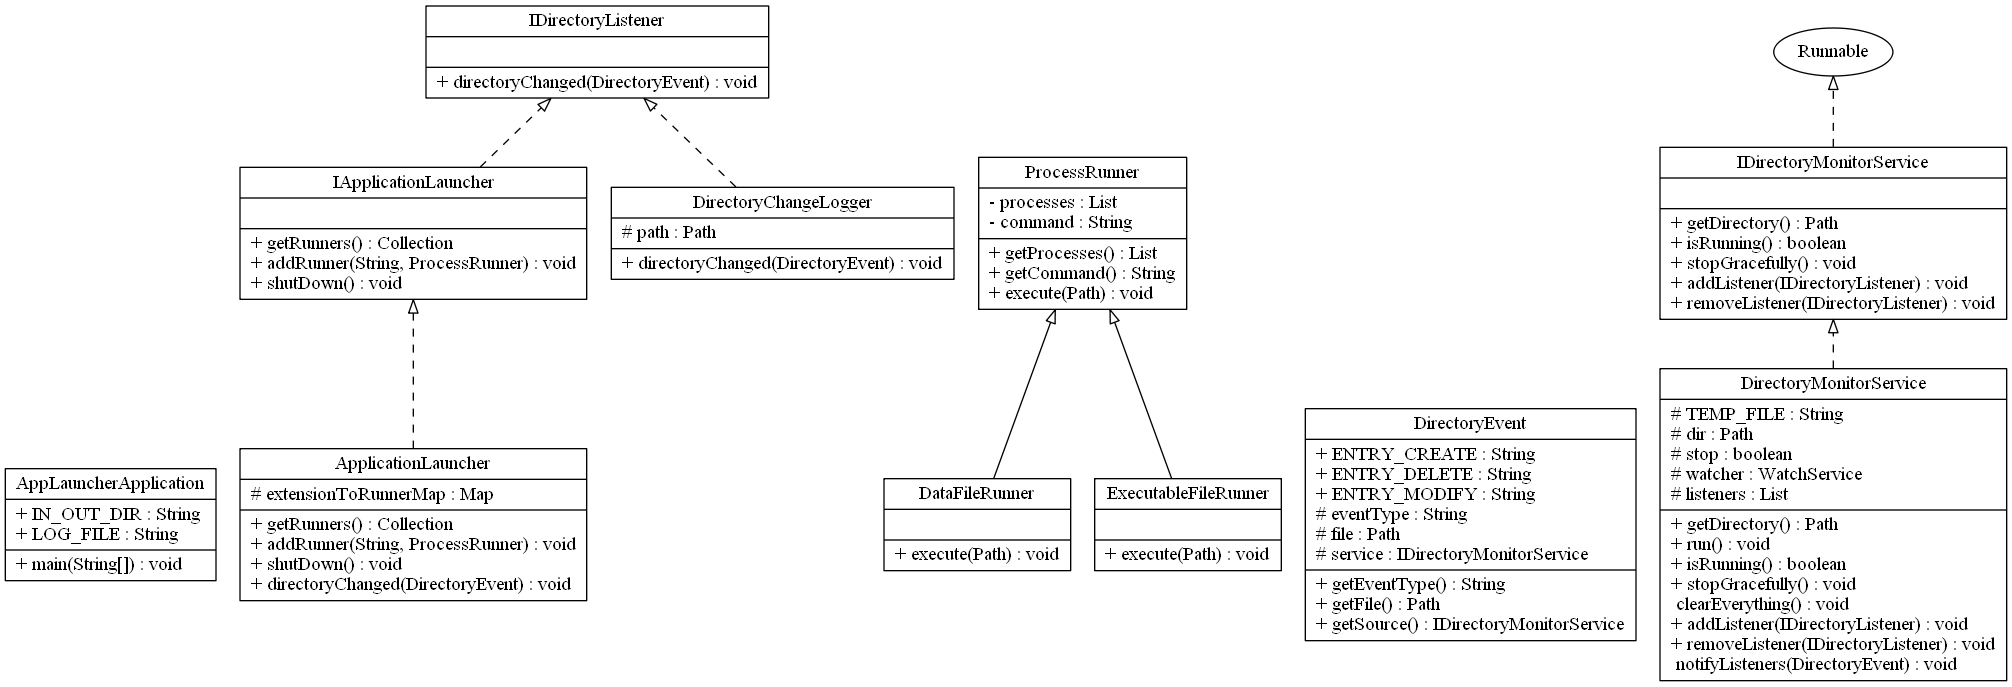
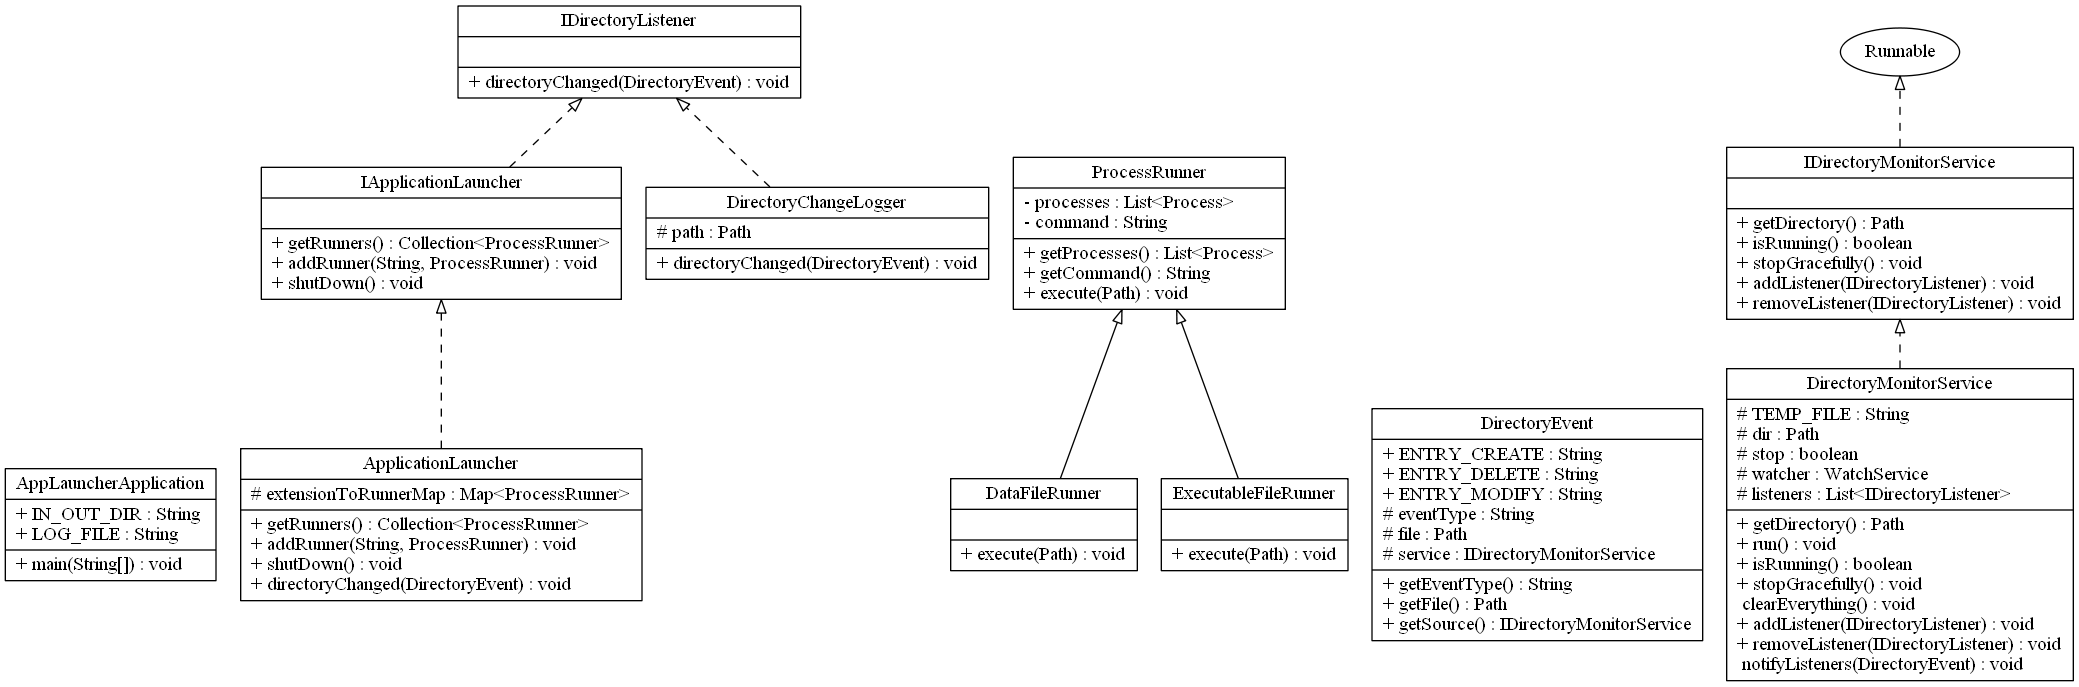
Added types to List, Collection, etc

diff --git a/src/umlMaker/impl/UMLMakerOutputStream.java b/src/umlMaker/impl/UMLMakerOutputStream.java
@@ -33,6 +33,10 @@ public class UMLMakerOutputStream extends VisitorAdapter {
 		addAccessLevel(f.getAccess());
 		addColon(f.getName());
 		addEnter(type);
+		if(f.getSignature() != null) {
+			addReturnTypeType(f.getSignature());
+		}
+		write("\\l");
 	}
 
 	@Override
@@ -44,6 +48,9 @@ public class UMLMakerOutputStream extends VisitorAdapter {
 		addArguments(m.getDescription());
 		write(") : ");
 		addReturnType(m.getDescription());
+		if(m.getSignature() != null) {
+			addReturnTypeType(m.getSignature());
+		}
 		write("\\l");
 	}
 
@@ -98,6 +105,12 @@ public class UMLMakerOutputStream extends VisitorAdapter {
 		String[] returnName = returnType.split("\\.");
 		write(returnName[returnName.length - 1]);
 	}
+	
+	void addReturnTypeType(String signature) {
+		String[] type = signature.split("/");
+		String[] type2 = type[type.length - 1].split(";");
+		write("\\<" + type2[0] + "\\>");
+	}
 
 	void addArguments(String desc) {
 		Type[] args = Type.getArgumentTypes(desc);
@@ -112,8 +125,6 @@ public class UMLMakerOutputStream extends VisitorAdapter {
 	private void addEnter(String signature) {
 		String[] namet = signature.split("\\.");
 		write(namet[namet.length - 1]);
-		write("\\" + "l");
-
 	}
 
 	private void addColon(String name) {

diff --git a/src/problem/asm/FirstASM.java b/src/problem/asm/FirstASM.java
@@ -11,7 +11,7 @@ public class FirstASM {
 
 	public static void main(String[] args) throws IOException {
 		// Read in this class
-		ClassReader reader = new ClassReader("puzzle.Creator");
+		ClassReader reader = new ClassReader("problem.asm.DesignParser");
 		
 		// Construct visitor to print out byte code
 		ClassVisitor visitor = new TraceClassVisitor(new PrintWriter(System.out));
